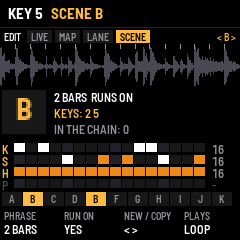
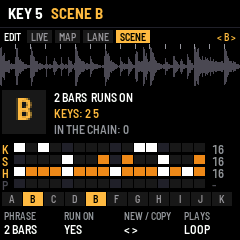
MATHCORE: lanes vary by themselves - ghost snares, hat velocity, rolls, laid-back off-beats
Laurens: the patterns should sound more natural, more variation in the hats and snares.

- VARY per lane (LANE FEEL K4): hats get per-hit velocity, other hat slices,
  skipped off-beats, little rolls and a laid-back feel; snares get ghost notes
  round the backbeat, flams and the break's other snare hits; kicks a pickup
- more in a phrase's last bar; seeded, so a scene repeats exactly when restarted
- presets: hats with accent shapes, snares alternating, VARY by role (MCS4)

Claude-Session: https://claude.ai/code/session_01YWuRNtShpoWxrtcHmPbuCP

diff --git a/app/site/controlmap.html b/app/site/controlmap.html
@@ -191,7 +191,7 @@
     { id: "edit", btn: "EDIT", name: "MATHCORE", sub: "Play scenes that re-cut the break", again: "next part (4)", part: true, subs: [
       { n: "LIVE", k: ["DENSITY", "MATH", "SPEED", "CHAOS"], strip: "THE WHEEL: A RING PER LANE, TURNING · THE 11 SCENES · NEXT · THE CHAIN", note: "a black key plays its scene (a groove on the next bar, a fill on the next beat, then back); held: while held. SEL + K1–K4: mute / solo" },
       { n: "MAP", k: ["KICKS", "SNARES", "HATS", "PERCS"], strip: "16 SLICE BLOCKS WITH THEIR ROLES (K S H P)", note: "heard from the break when it loads: nothing to set" },
-      { n: "LANE", k: ["LENGTH · MODE · CHANCE · ROLE", "RATE · PICK · RATCHET · SEED", "ROTATE · PITCH · GATE · RISE", "PHASE · LEVEL · REVERSE · LANE"], strip: "THE LANE'S 32 EVENTS · THE SCENE'S 4 LANES", note: "PRESETS: RHYTHM · SOUND · FEEL · MORE; white keys: its events (SEL: 17–32; FEEL: accents)" },
+      { n: "LANE", k: ["LENGTH · MODE · CHANCE · ROLE", "RATE · PICK · RATCHET · RISE", "ROTATE · PITCH · GATE · REVERSE", "PHASE · LEVEL · VARY · LANE"], strip: "THE LANE'S 32 EVENTS · THE SCENE'S 4 LANES", note: "PRESETS: RHYTHM · SOUND · FEEL · MORE; white keys: its events (SEL: 17–32; FEEL: accents)" },
       { n: "SCENE", k: ["PHRASE", "RUN ON", "NEW / COPY", "PLAYS"], strip: "THE SCENE · ITS BLACK KEYS · ITS 4 LANES", note: "a black key: it plays this scene; PLAYS: LOOP (groove) or ONCE (fill)" } ],
       algo: "Chain entry · slice · lane · scene", presets: "Move entry · knob set (LANE)", keys: "slices", black: "scenes",
       notes: [["Black key (LIVE)", "Play its scene: groove on the bar, fill on the beat"], ["Black key held (LIVE)", "Its scene while held, then the groove"],

diff --git a/app/dsp/brk.c b/app/dsp/brk.c
@@ -694,7 +694,7 @@ static void mc_tick(const brk_break_t *b, uint32_t t, float sl)
     static const uint8_t PRIO[MC_ROLES] = {3u, 4u, 1u, 2u};   /* one voice: the snare, the kick, the perc, the hat */
     uint32_t l, k, solo = p_mc_solo, mute = p_mc_mute, mac = p_mc_macro, win_score = 0u, win_r = 12u;
     int32_t win = -1, win_s = 0;
-    float win_g = 1.0f, win_pt = 0.0f;
+    float win_g = 1.0f, win_pt = 0.0f, win_late = 0.0f;
     uint8_t win_fl = 0u, win_rat = 1u;
     uint32_t dens = mac & 0xFFu, math = mac >> 8 & 0xFFu, spd = mac >> 16 & 0xFFu, chaos = mac >> 24 & 0xFFu;
     const uint8_t *mlen = MC_MATH_LEN[(math > 100u ? 100u : math) * (MC_MATH_STEPS - 1u) / 100u];
@@ -705,6 +705,9 @@ static void mc_tick(const brk_break_t *b, uint32_t t, float sl)
         const mc_lane_t *L = &sc->lane[l];
         uint8_t list[BRK_MAX_SLICES];
         uint32_t r, rel, e, pos, len = L->len < 1u ? 1u : L->len > MC_EVENTS ? MC_EVENTS : L->len, n, acc, hit;
+        uint32_t role = L->role % MC_ROLES, ll = L->len ? L->len : 1u, vary = L->vary > 100u ? 100u : L->vary;
+        uint32_t ghost = 0u;
+        float late = 0.0f;
         uint8_t rat, fl;
         int32_t s;
         float g, pt;
@@ -735,9 +738,22 @@ static void mc_tick(const brk_break_t *b, uint32_t t, float sl)
             hit = 0u;                    /* DENSITY down: the off-beat, unaccented hits go (the same ones each cycle) */
         else if (!hit && dens > 50u && mc_hash(L->seed + 3u, l, pos) % 100u < (dens - 50u) * (l ? 14u : 6u) / 10u)
             hit = 1u;                    /* DENSITY up: hits added (fewer on the kick lane) */
+        if (vary && mc_steps > (bars_of(sc) - 1u) * BRK_STEPS_PER_BAR)   /* the phrase's last bar: more */
+            vary = vary * 3u / 2u + 20u > 100u ? 100u : vary * 3u / 2u + 20u;
+        if (vary) {                      /* VARY: a drummer's own variations (seeded: the same each time) */
+            uint32_t h = mc_hash(L->seed + 21u, l, e) % 100u;
+            uint32_t nb = (L->hits >> ((pos + 1u) % ll) | L->hits >> ((pos + ll - 1u) % ll)) & 1u;
+            if (!hit && (role == ROLE_SNARE || role == ROLE_PERC) && (nb || pos & 1u) &&
+                h < vary * (nb ? 40u : 12u) / 100u)
+                hit = ghost = 1u;        /* a ghost note: a drag before a hit, a bounce after it, an off-beat */
+            else if (!hit && role == ROLE_KICK && (L->hits >> ((pos + 1u) % ll) & 1u) && h < vary * 15u / 100u)
+                hit = ghost = 1u;        /* a pickup kick before a kick */
+            else if (hit && role == ROLE_HAT && !acc && (pos & 1u) && h < vary * 20u / 100u)
+                hit = 0u;                /* an off-beat hat left out */
+        }
         if (!hit || (mute >> l & 1u) || (solo && !(solo >> l & 1u)))
             continue;                    /* (muted: the cycle counts on) */
-        if (L->prob < 100u && mc_hash(L->seed, l, e) % 100u >= L->prob)
+        if (!ghost && L->prob < 100u && mc_hash(L->seed, l, e) % 100u >= L->prob)
             continue;
         n = mc_role_slices(p_roles, b->nslices, L->role % MC_ROLES, list);
         if (!n) {
@@ -754,6 +770,17 @@ static void mc_tick(const brk_break_t *b, uint32_t t, float sl)
         }
         rat = L->ratchet;
         fl = L->flags;
+        if (vary) {                      /* another of the role's slices; a hat's little roll; a snare's flam */
+            uint32_t h = mc_hash(L->seed + 31u, l, e) % 100u;
+            if (n > 1u && h < vary / 2u)
+                k += 1u + h % (n - 1u);
+            if (role == ROLE_HAT && !acc && rat < 2u && r >= 12u && h % 5u == 2u && h < vary * 30u / 100u)
+                rat = 2u;
+            else if (role == ROLE_SNARE && acc && rat < 2u && h % 4u == 1u && h < vary * 25u / 100u)
+                rat = 2u;
+            if (ghost || (role == ROLE_HAT && (pos & 1u)))   /* laid back a touch: up to a tenth of a 16th */
+                late = (float)(mc_hash(L->seed + 51u, l, e) % 100u) * (float)vary * 1e-5f * sl;
+        }
         if (chaos) {                     /* CHAOS: a random slice, a ratchet, a reverse now and then */
             uint32_t h = mc_hash(L->seed + 5u, l, e) % 100u, c2 = mc_hash(L->seed + 9u, l, e) % 100u;
             if (h < chaos * 6u / 10u)
@@ -766,6 +793,14 @@ static void mc_tick(const brk_break_t *b, uint32_t t, float sl)
         s = list[k % n];
         mc_n[l]++;
         g = (float)(L->level > 100u ? 100u : L->level) * 0.01f * (L->accent && !acc ? 0.55f : 1.0f);
+        if (ghost)
+            g *= role == ROLE_KICK ? 0.6f : 0.3f;
+        if (vary) {                      /* velocity: never twice the same, the off-beat hats softer */
+            float rnd = (float)(mc_hash(L->seed + 41u, l, e) & 1023u) * (1.0f / 1023.0f);
+            g *= 1.0f - (float)vary * 0.0035f * rnd;
+            if (role == ROLE_HAT && (pos & 1u))
+                g *= 1.0f - (float)vary * 0.003f;
+        }
         pt = (float)L->pitch;
         if (L->rise) {                   /* the riser climbs and swells over its phrase */
             float pr = (float)(mc_steps ? mc_steps - 1u : 0u) / (float)(bars_of(sc) * BRK_STEPS_PER_BAR);
@@ -774,7 +809,7 @@ static void mc_tick(const brk_break_t *b, uint32_t t, float sl)
         }
         mc_hitc[l]++;                    /* (each lane's event counts; one of them is heard) */
         {
-            uint32_t sc_ = (acc ? 8u : 0u) + PRIO[L->role % MC_ROLES];
+            uint32_t sc_ = ghost ? 0u : (acc ? 8u : 0u) + PRIO[role];   /* (a ghost never cuts a real hit) */
             if (sc_ > win_score || win < 0) {
                 win = (int32_t)l;
                 win_score = sc_;
@@ -784,6 +819,7 @@ static void mc_tick(const brk_break_t *b, uint32_t t, float sl)
                 win_fl = fl;
                 win_rat = rat;
                 win_r = r;
+                win_late = late;
             }
         }
     }
@@ -793,9 +829,16 @@ static void mc_tick(const brk_break_t *b, uint32_t t, float sl)
     mr_flags[l] = win_fl;
     mr_gate[l] = (uint8_t)(sc->lane[l].gate ? sc->lane[l].gate : 100u);
     mr_pitch[l] = win_pt;
-    chop_hit(b, win_s, win_g, (win_fl & MCL_REV) != 0u, mr_gate[l], win_pt);
     for (k = 0; k < MC_LANES; k++)       /* (a new hit ends the ratchets before it) */
         mr_count[k] = 0u;
+    if (win_late >= 1.0f && win_rat < 2u) {   /* laid back: the hit a little later (the ratchet's timer) */
+        mr_count[l] = 1u;
+        mr_left[l] = mr_len[l] = win_late;
+        mr_slice[l] = win_s;
+        mr_gain[l] = win_g;
+        return;
+    }
+    chop_hit(b, win_s, win_g, (win_fl & MCL_REV) != 0u, mr_gate[l], win_pt);
     mr_count[l] = win_rat > 1u ? (win_rat > 4u ? 3u : win_rat - 1u) : 0u;
     if (mr_count[l]) {                   /* the event's other hits, evenly inside it */
         mr_len[l] = (float)win_r * (1.0f / (float)MC_TICKS) * sl / (float)(mr_count[l] + 1u);

diff --git a/app/app.c b/app/app.c
@@ -274,7 +274,7 @@ static void pat_read_back(void)          /* the engine's steps into the pattern 
 /* ----------------------------------------------------------------- MATHCORE --- */
 /* the scenes (A..P: four sample lanes each, docs/PRD_MATHCORE.md 6.1) in their own store object; the queue and the
  * black keys' shortcuts in another (the queue names scenes: one scene, queued as often as wanted) */
-#define MCS_MAGIC 0x3353434Du            /* "MCS3" (the scenes re-cut the break, 22 Nov 2026: the presets again) */
+#define MCS_MAGIC 0x3453434Du            /* "MCS4" (the lanes vary by themselves, 23 Nov 2026: the presets again) */
 #define MQ_MAGIC 0x3151434Du             /* "MCQ1" */
 #define MC_QUEUE 64u
 #define MC_NOKEY 0xFFu                   /* a black key with no scene */
@@ -309,6 +309,10 @@ static void mc_lane_defaults(mc_lane_t *l, uint32_t role)
     l->level = 100u;
     l->role = (uint8_t)role;
     l->seed = (uint8_t)(role * 37u + 11u);
+    {                                    /* VARY: the hats and snares most, the kick a little */
+        static const uint8_t V[MC_ROLES] = {20u, 60u, 70u, 45u};
+        l->vary = V[role % MC_ROLES];
+    }
 }
 /* the scenes as they come (A..P): grooves, fills, a riser, a breakdown, a drop, of different lengths, ready to play
  * from the black keys. A lane is a string: x a hit, X an accented one, . none (its length the string's). They re-cut
@@ -331,15 +335,15 @@ typedef struct {
 #define OFF_ {0, MCR_16, 0, 100, 1, 100, 0, 0}
 static const mc_preset_t MC_PRESET[11] = {
     {1, 2, MCS_BREAK, {L_("X.........X.....", MCR_16, MCM_FIXED, 100, 1, 100, 0, 0),
-               L_("....X.......X...", MCR_16, MCM_FIXED, 100, 1, 100, 0, 0),
-               L_("x.X.x.X.x.X.x.X.", MCR_16, MCM_ROUND, 100, 1, 80, 0, 0),
+               L_("....X.......X...", MCR_16, MCM_ALT, 100, 1, 100, 0, 0),
+               L_("X.xxX.x.X.xxX.xx", MCR_16, MCM_ROUND, 100, 1, 80, 0, 0),
                L_("..............x.", MCR_16, MCM_ROUND, 60, 1, 70, 0, 0)}},
     {2, 2, MCS_BREAK, {L_("X.X.......XX....", MCR_16, MCM_FIXED, 100, 1, 100, 0, 0),
                L_("....X..x.x..X..x", MCR_16, MCM_ACCENT, 100, 1, 100, 0, 0),
-               L_("xxxxxxxxxxxxxxxx", MCR_16, MCM_RANDOM, 70, 1, 70, 0, 0), OFF_}},
+               L_("XxxxXxxxXxxxXxXx", MCR_16, MCM_ROUND, 90, 1, 75, 0, 0), OFF_}},
     {3, 2, MCS_BREAK, {L_("X.........X.....X.....X.........", MCR_16, MCM_FIXED, 100, 1, 100, 0, 0),
                L_("........X...............X.......", MCR_16, MCM_FIXED, 100, 1, 100, 0, 0),
-               L_("x.x.x.x.x.x.x.x.", MCR_16, MCM_ROUND, 100, 1, 75, 0, 0),
+               L_("X.x.X.xxX.x.X.xx", MCR_16, MCM_ROUND, 100, 1, 75, 0, 0),
                L_("...x.......x..x.", MCR_16, MCM_RANDOM, 50, 1, 70, 0, 0)}},
     {4, 4, MCS_BREAK, {L_("X..x.", MCR_16, MCM_FIXED, 100, 1, 100, 0, 0),
                L_("....X..", MCR_16, MCM_ALT, 100, 1, 100, 0, 0),
@@ -359,8 +363,8 @@ static const mc_preset_t MC_PRESET[11] = {
                        L_("x..", MCR_8T, MCM_ROUND, 100, 1, 55, 0, 0),
                        L_("x....", MCR_8, MCM_RANDOM, 100, 1, 60, 0, 0)}},
     {9, 2, MCS_BREAK, {L_("X..X..X.", MCR_16, MCM_FIXED, 100, 1, 100, 0, 0),
-               L_("....X.......X...", MCR_16, MCM_FIXED, 100, 1, 100, 0, 0),
-               L_("xXxxXxxXxxXxxXxx", MCR_32, MCM_ROUND, 100, 1, 70, 0, 0),
+               L_("....X..x....X.x.", MCR_16, MCM_ALT, 100, 1, 100, 0, 0),
+               L_("XxxxXxxXxxXxXxxx", MCR_32, MCM_ROUND, 100, 1, 70, 0, 0),
                L_("x.....", MCR_16T, MCM_ROUND, 100, 1, 75, 0, 0)}},
     {10, 2, MCS_BREAK, {L_("X..X.X.", MCR_16, MCM_FIXED, 100, 1, 100, 0, 0),
                 L_("...X......X...", MCR_16, MCM_FIXED, 100, 1, 100, 0, 0),
@@ -404,6 +408,10 @@ static void mc_scene_defaults(mc_scene_t *s, uint32_t i)
         L->level = p->l[l].level;
         L->rise = p->l[l].rise;
         L->seed = (uint8_t)(L->seed + i * 13u);
+        if (L->rise)
+            L->vary = 0u;                /* (a riser stays a riser) */
+        else if (p->flags & MCS_ONCE)
+            L->vary /= 2u;               /* (a fill is busy already) */
     }
 }
 static void mc_defaults(void)

diff --git a/app/ui/mc.c b/app/ui/mc.c
@@ -9,8 +9,8 @@ enum { MKS_RHYTHM, MKS_SOUND, MKS_FEEL, MKS_MORE, MKSETS };   /* LANE's knob set
 static const char *const MKS_NAME[MKSETS] = {"RHYTHM", "SOUND", "FEEL", "MORE"};
 static const char *const MC_KNOB[MKSETS][4] = {{"LENGTH", "RATE", "ROTATE", "PHASE"},
                                                {"MODE", "PICK", "PITCH", "LEVEL"},
-                                               {"CHANCE", "RATCHET", "GATE", "REVERSE"},
-                                               {"ROLE", "SEED", "RISE", "LANE"}};
+                                               {"CHANCE", "RATCHET", "GATE", "VARY"},
+                                               {"ROLE", "RISE", "REVERSE", "LANE"}};
 static const char *const MACRO_NAME[4] = {"DENSITY", "MATH", "SPEED", "CHAOS"};
 static const char *const ROLE_NAME[MC_ROLES] = {"KICK", "SNARE", "HAT", "PERC"};
 static const char ROLE_CH[MC_ROLES] = {'K', 'S', 'H', 'P'};
@@ -451,10 +451,9 @@ static void mc_value(int i, char *t)     /* MATHCORE's knob i, as the foot shows
     case 8: int_text(L->prob, t); text_cat(t, "%"); break;
     case 9: text_cat(t, "X"); int_text(L->ratchet ? L->ratchet : 1, t + 1); break;
     case 10: int_text(L->gate, t); text_cat(t, "%"); break;
-    case 11: text_cat(t, L->flags & MCL_REV ? "ON" : "OFF"); break;
+    case 11: int_text(L->vary, t); text_cat(t, "%"); break;
     case 12: text_cat(t, ROLE_NAME[L->role % MC_ROLES]); break;
-    case 13: int_text(L->seed, t); break;
-    case 14:
+    case 13:
         if (!L->rise)
             text_cat(t, "OFF");
         else {
@@ -462,6 +461,7 @@ static void mc_value(int i, char *t)     /* MATHCORE's knob i, as the foot shows
             text_cat(t, " ST");
         }
         break;
+    case 14: text_cat(t, L->flags & MCL_REV ? "ON" : "OFF"); break;
     default: text_cat(t, L->flags & MCL_ON ? "ON" : "OFF"); break;
     }
 }
@@ -553,10 +553,10 @@ static void mc_turn(int i, int32_t d)
         case 8: L->prob = (uint8_t)clamp((int32_t)L->prob + d * 5, 0, 100); break;
         case 9: L->ratchet = (uint8_t)clamp((int32_t)(L->ratchet ? L->ratchet : 1u) + (d > 0 ? 1 : -1), 1, 4); break;
         case 10: L->gate = (uint8_t)clamp((int32_t)L->gate + d * 5, 5, 100); break;
-        case 11: L->flags = (uint8_t)(d > 0 ? L->flags | MCL_REV : L->flags & ~MCL_REV); break;
+        case 11: L->vary = (uint8_t)clamp((int32_t)L->vary + d * 5, 0, 100); break;
         case 12: L->role = (uint8_t)((L->role + (d > 0 ? 1u : MC_ROLES - 1u)) % MC_ROLES); L->pick = 0u; break;
-        case 13: L->seed = (uint8_t)(L->seed + d); break;
-        case 14: L->rise = (int8_t)clamp(L->rise + d, -12, 24); break;
+        case 13: L->rise = (int8_t)clamp(L->rise + d, -12, 24); break;
+        case 14: L->flags = (uint8_t)(d > 0 ? L->flags | MCL_REV : L->flags & ~MCL_REV); break;
         default: L->flags = (uint8_t)(d > 0 ? L->flags | MCL_ON : L->flags & ~MCL_ON); break;
         }
     set_dirty = 1u;

diff --git a/tests/engine/test_engine.c b/tests/engine/test_engine.c
@@ -2241,6 +2241,38 @@ static void test_mc_play(void)
         brk_play(0);
         mc_run(BLOCK * 8u, 0, 0);
     }
+    /* VARY: a snare lane on 5 and 13 grows ghost notes round them, never the same bar twice, the same run twice */
+    {
+        static float a1[4u * 44100u], a2[4u * 44100u];
+        uint32_t plain, varied;
+        mc_scene_init(&mc_sc[4], 4u);
+        mc_sc[4].lane[1].flags = MCL_ON;
+        mc_sc[4].lane[1].hits = 0x1010u;
+        brk_mc_start(4);
+        brk_mc_next(4);
+        mc_zero_counts();
+        brk_play(1);
+        mc_run_counting(64u * sl, 0);
+        plain = mc_hits_total[1];
+        brk_play(0);
+        mc_run(BLOCK * 8u, 0, 0);
+        mc_sc[4].lane[1].vary = 80u;
+        brk_mc_start(4);
+        mc_zero_counts();
+        brk_play(1);
+        mc_run_counting(64u * sl, a1);
+        varied = mc_hits_total[1];
+        brk_play(0);
+        mc_run(BLOCK * 8u, 0, 0);
+        brk_mc_start(4);
+        brk_play(1);
+        mc_run_counting(64u * sl, a2);
+        CHECK(plain == 8u && varied > plain + 2u, "VARY: ghost notes round the backbeat (%u hits, %u plain)", varied,
+              plain);
+        CHECK(!memcmp(a1, a2, 64u * sl * sizeof(float)), "VARY: the same seed, the same variations");
+        brk_play(0);
+        mc_run(BLOCK * 8u, 0, 0);
+    }
     brk_mc_scenes(0);
 }
 

diff --git a/app/dsp/brk.h b/app/dsp/brk.h
@@ -183,7 +183,12 @@ typedef struct {
     int8_t rise;                         /* a riser: over the scene's phrase the lane speeds up (its rate halved each
                                           * quarter of the phrase, to 1/64), swells and climbs this many semitones
                                           * (0: none) */
-    uint8_t rsv[2];
+    uint8_t vary;                        /* 0..100: how much it varies by itself, as a drummer would: on the hats
+                                          * velocity, other hat slices, a skipped off-beat, a little roll, laid back
+                                          * a touch; on the snares ghost notes round the backbeat, flams, the other
+                                          * snare hits; a kick's pickup now and then. More in a phrase's last bar.
+                                          * From the seed: the same seed, the same variations */
+    uint8_t rsv;
 } mc_lane_t;                             /* 24 bytes */
 #define MCS_BREAK 1u                     /* RUN ON: a hit runs on into the break until the next (else dry chops) */
 #define MCS_ONCE 2u                      /* a fill, a riser, a drop: plays once, then back to the groove */

diff --git a/app/docs/MANUAL.md b/app/docs/MANUAL.md
@@ -635,13 +635,22 @@ and round while you edit it.
 | --- | --- | --- | --- | --- |
 | RHYTHM | LENGTH: 1–32 events in the cycle | RATE: 1/32, 1/16, 1/8, 1/4, 1/32T, 1/16T, 1/8T | ROTATE: the hits a step later (right) or earlier | PHASE: the cycle starts this many events in |
 | SOUND | MODE: which of the role's slices (below) | PICK: the slice FIXED, ALT and ACCENT start from | PITCH: −12 … +12 | LEVEL |
-| FEEL | CHANCE: each event plays this often (the seed decides, the same every time) | RATCHET: ×1–×4 hits an event | GATE: how much of the slice sounds | REVERSE |
-| MORE | ROLE: the slices it plays (KICK, SNARE, HAT, PERC) | SEED | RISE: a riser, the lane speeding up over the phrase and climbing this many semitones (OFF: none) | LANE: on or off |
+| FEEL | CHANCE: each event plays this often (the seed decides, the same every time) | RATCHET: ×1–×4 hits an event | GATE: how much of the slice sounds | VARY: how much the lane varies by itself (below) |
+| MORE | ROLE: the slices it plays (KICK, SNARE, HAT, PERC) | RISE: a riser, the lane speeding up over the phrase and climbing this many semitones (OFF: none) | REVERSE | LANE: on or off |
 
 **MODE**: FIXED always the PICKed slice; ROUND each of the role's slices in turn; RANDOM one at random (from the
 seed: the same seed, the same choices); ALT two in turn; ACCENT the PICKed slice for soft hits, the next for accents.
 A lane with accents plays its other hits at 55 %. A lane whose role has no slice in the break plays nothing and
 shows "!" at the end of its row.
+
+**VARY** makes a lane play like a drummer rather than a loop, by itself: on the **hats** every hit at its own
+velocity (the off-beat 16ths softer), the break's other hat hits in turn, now and then an off-beat left out or a
+little roll, the off-beats laid back a touch; on the **snares** ghost notes round the backbeat (a drag before a hit,
+a bounce after, soft and laid back), now and then a flam on an accent and the break's other snare hits; on the
+**kick** an occasional pickup before a kick. The last bar of a phrase varies more, as a fill would. A ghost never cuts
+a real hit. It all comes from the lane's seed, so a scene plays the same way each time you start it, but no two
+bars in a row alike. The scenes come with it set: hats 70 %, snares 60 %, perc 45 %, kick 20 % (fills half that,
+risers none).
 
 All lanes count on one clock (the transport's 16ths, twelve ticks each): a 5-event kick lane against a 7-event snare
 lane and an 11-event hat lane at 1/32 meet again exactly where they should, bar after bar, and follow MIDI clock.

diff --git a/docs/PRD_MATHCORE.md b/docs/PRD_MATHCORE.md
@@ -561,3 +561,15 @@ integrated, the sequencer too. Changed (same branch):
 | MM-V-004 | MIDI drum notes cut the break's voice to the role's slice | Done |
 | MM-V-005 | The MIXER's LANES fader and the lanes' route are gone (nothing to mix: one voice); their settings bytes stay reserved | Done |
 
+---
+
+## 17. Revision: natural variation (23 Nov 2026)
+
+Laurens: the patterns should sound more natural, more variation in the hats and the snares.
+
+| ID | Requirement | State |
+| --- | --- | --- |
+| MM-N-001 | **VARY** per lane (0–100, `mc_lane_t.vary`, LANE FEEL K4): hats: velocity per hit (off-beat 16ths softer), other hat slices, an off-beat left out, a little roll (×2), off-beats laid back up to a tenth of a 16th; snares and perc: ghost notes next to hits (a drag, a bounce) and on off-beats, soft (30 %) and laid back, a flam on an accent, other snare slices; kick: a pickup before a kick (60 %). Up by half plus 20 in a phrase's last bar. Seeded per event (`mc_hash`): the same start, the same variations; ghosts rank below every real hit for the one voice | Done; engine test: ghosts round 5 and 13, identical twice |
+| MM-N-002 | The presets: VARY by role (hat 70, snare 60, perc 45, kick 20; ONCE scenes half, risers 0); hat lines with accent shapes instead of flat 16ths, the AMEN hats round-robin instead of random, snares alternating between the break's snare hits. Store magic MCS4 | Done |
+| MM-N-003 | LANE MORE: ROLE, RISE, REVERSE, LANE (SEED left the panel; VARY's seed is the lane's own) | Done |
+
